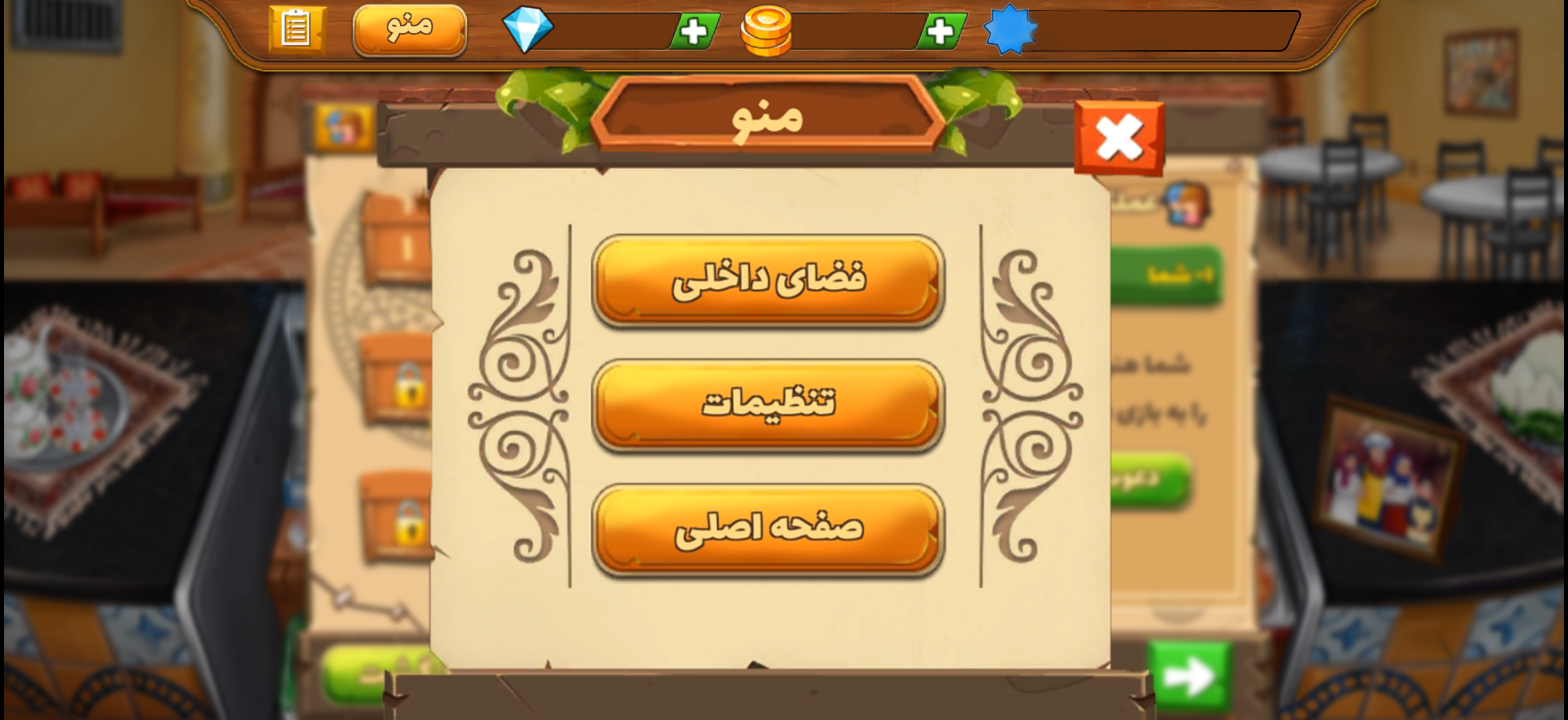
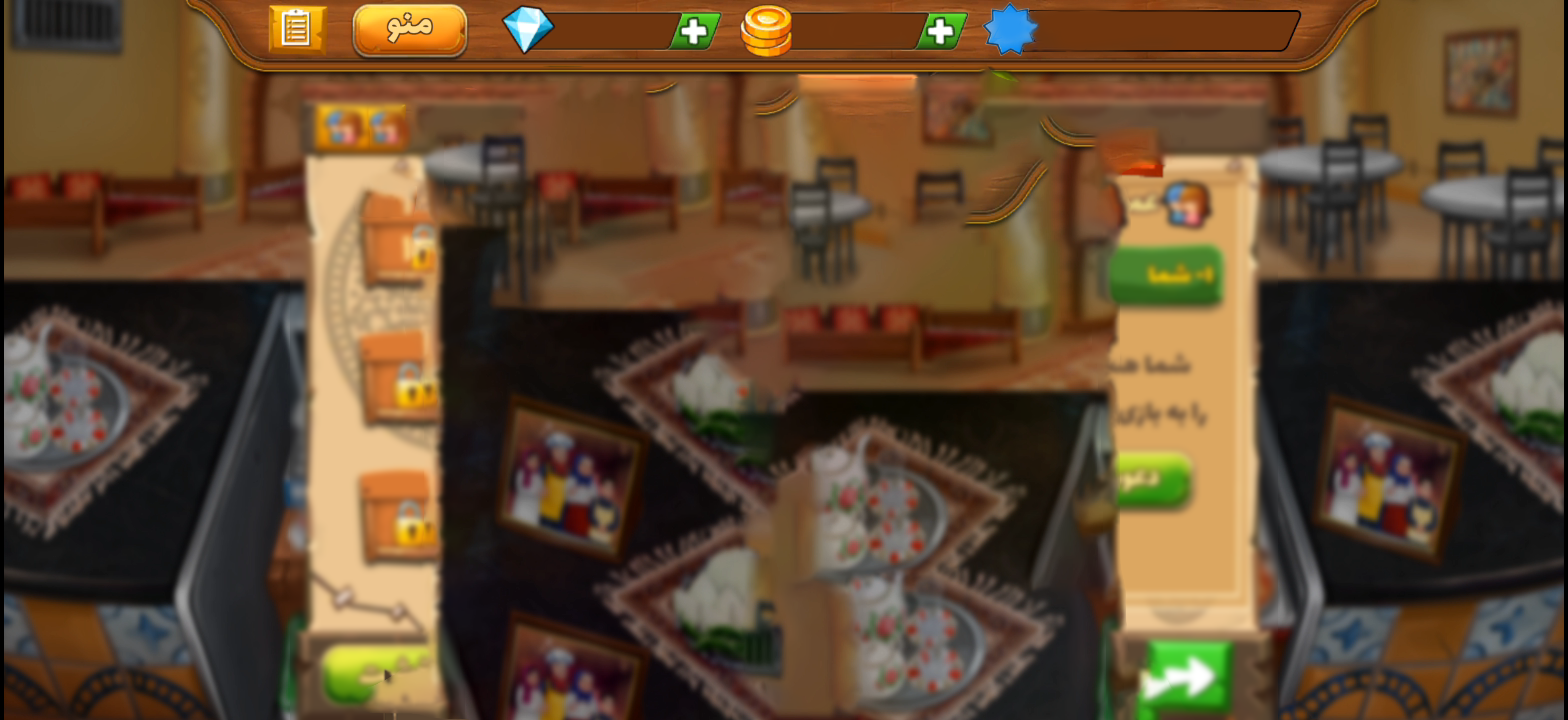
refactor: menu and add picture

diff --git a/style/main.css b/style/main.css
@@ -79,7 +79,7 @@ body {
   top: 200px;
   left: 355px;
 }
-#MenuLevelOnePage{
+#MenuLevelOnePage {
   cursor: pointer;
   /* background: rgba(255, 0, 0, 0.712); */
   width: 105px;
@@ -88,18 +88,17 @@ body {
   top: 30px;
   left: 270px;
 }
-#MenuLevelOnePage01{
-    background: url("../images/MenuLevelOnePage.png") center / contain no-repeat;
+#MenuLevelOnePage01 {
+  background: url("../images/MenuLevelOnePage.png") center / contain no-repeat;
   position: absolute;
   width: 100%;
   height: 100%;
   top: 0;
   left: 0;
-  z-index:10 ;
-   
+  z-index: 10;
 }
-#Continued{
-     cursor: pointer;
+#Continued {
+  cursor: pointer;
   /* background: rgba(0, 217, 255, 0.712); */
   width: 330px;
   height: 90px;
@@ -107,8 +106,8 @@ body {
   top: 180px;
   left: 630px;
 }
-#Restart{
-     cursor: pointer;
+#Restart {
+  cursor: pointer;
   /* background: rgba(255, 0, 0, 0.712); */
   width: 330px;
   height: 90px;
@@ -116,19 +115,18 @@ body {
   top: 330px;
   left: 630px;
 }
-#MenuLevelOnePage01 > #HomePage01{
-       cursor: pointer;
+#MenuLevelOnePage01 > #HomePage01 {
+  cursor: pointer;
   /* background: rgba(255, 0, 0, 0.712); */
   width: 330px;
   height: 90px;
   position: absolute;
   top: 460px;
   left: 620px;
-
 }
 
-#close{
-    cursor: pointer;
+#close {
+  cursor: pointer;
   /* background: rgba(0, 38, 255, 0.712); */
   width: 90px;
   height: 80px;
@@ -152,15 +150,16 @@ body {
   height: 100%;
   top: 0;
   left: 0;
-    z-index: 1;
+  z-index: 1;
 }
 #MenuSettings {
-  background: url("../images/MenuSettings.png") center / contain no-repeat;
+  background: url("../images/seeting.png") center / contain no-repeat;
   position: absolute;
   width: 100%;
   height: 100%;
-  top: 0;
+  top: 90px;
   left: 0;
+  z-index: 2;
 }
 .closeMenuSettings {
   cursor: pointer;
@@ -178,7 +177,7 @@ body {
   width: 340px;
   height: 90px;
   position: absolute;
-  top: 370px;
+  top: 280px;
   left: 580px;
 }
 #Settings01 {
@@ -188,7 +187,7 @@ body {
   height: 93%;
   top: 80px;
   left: 0;
-    z-index: 2;
+  z-index: 2;
 }
 #HomePage {
   cursor: pointer;
@@ -196,7 +195,7 @@ body {
   width: 340px;
   height: 90px;
   position: absolute;
-  top: 490px;
+  top: 400px;
   left: 580px;
 }
 /*

diff --git a/js/main.js b/js/main.js
@@ -29,12 +29,13 @@ MenuTop.onclick = function () {
     auClick.play()
   levelOne.className = "hide";
    MenuSettings.className = "show";
-   backMenuSettings.className = "hide"
+  backMenuSettings.className = "show";
 }
 closeMenuSettings.onclick = function () {
     auClick.play()
   levelOne.className = "show";
   MenuSettings.className = "hide";
+   backMenuSettings.className = "hide";
 }
 
 
@@ -54,7 +55,7 @@ closeSettings01.onclick = function () {
  levelOne.className = "show";
     MenuSettings.className = "show";
 
-    backMenuSettings.className = "hide";
+    backMenuSettings.className = "show";
     Settings01.className = "hide";
 
 }
